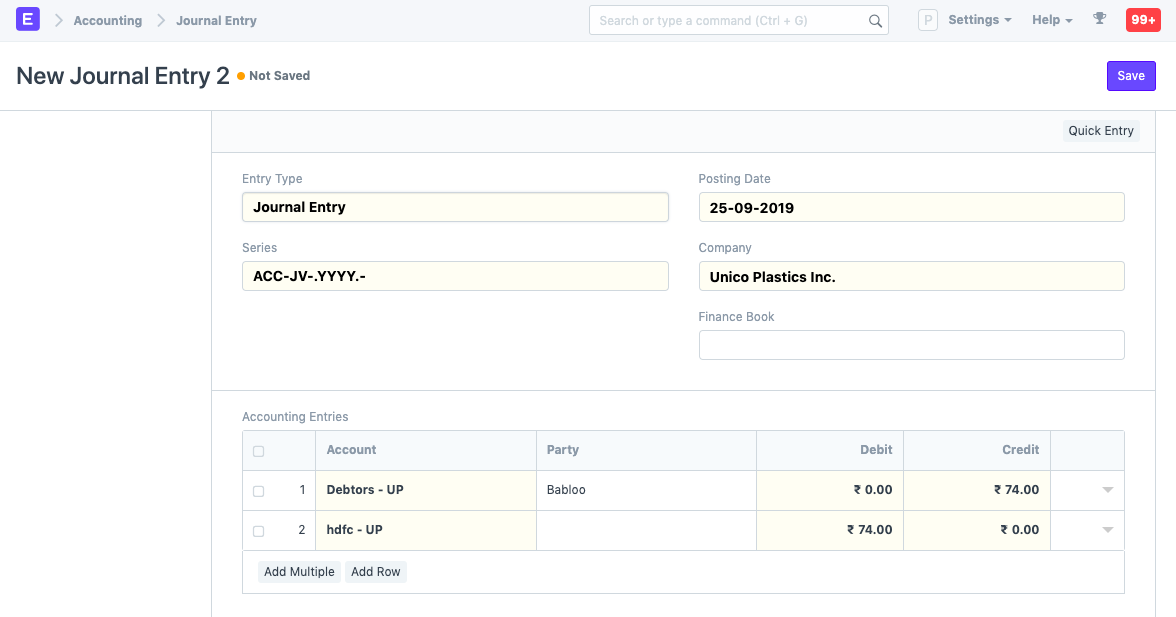
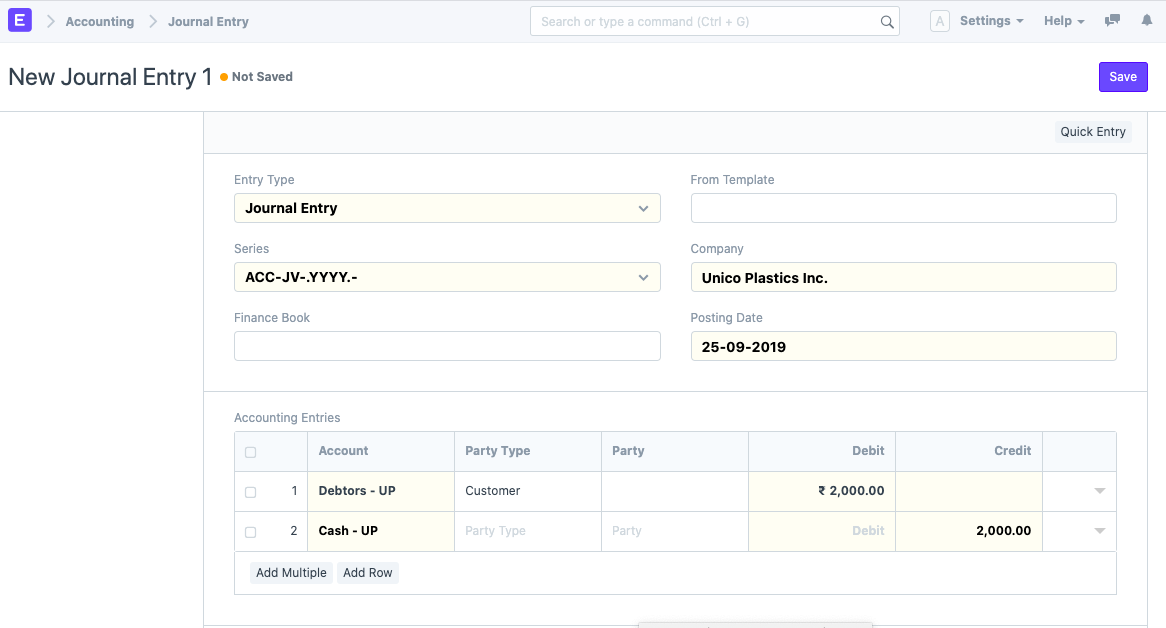
docs: Journal Entry Template (#59)
* files added

* docs: Journal Entry Template

* Update contents.md

* Update journal-entry-template.md

* Update journal-entry.md

diff --git a/erpnext_documentation/www/docs/user/manual/en/accounts/index.html b/erpnext_documentation/www/docs/user/manual/en/accounts/index.html
@@ -28,6 +28,11 @@
 				'content': 'A standard accounting transaction that affects multiple Accounts and the sum of debits is equal to the sum of credits.'
 			},
 			{
+				'title': 'Journal Entry Template',
+				'link': '/docs/user/manual/en/accounts/journal-entry-template',
+				'content': 'Journal Entry Templates let you set and select a predetermined list of accounts and options while making a Journal Entry.'
+			},
+			{
 				'title': 'Payment Entry',
 				'link': '/docs/user/manual/en/accounts/payment-entry',
 				'content': 'Accounting entries that can be made against invoices, sales and purchase orders, expense claims, etc.'

diff --git a/erpnext_documentation/www/docs/user/manual/en/accounts/journal-entry.md b/erpnext_documentation/www/docs/user/manual/en/accounts/journal-entry.md
@@ -7,16 +7,17 @@ A Journal Entry is a multi purpose transaction where the debit and credit accoun
 
 All types of accounting entries other than Sales and Purchase transactions are made using the **Journal Entry**. A **Journal Entry** is a standard accounting transaction that affects multiple Accounts and the sum of debits is equal to the sum of credits. A Journal Entry Impacts the main ledger.
 
-Journal Entries can be used for entering expenses, opening entries, contra entries, bank payments, excise entries, etc. For example, booing running expenses, direct expenses like petrol/transport, sundry expenses, adjustment entries, and adjusting invoice amount.
+Journal Entries can be used for entering expenses, opening entries, contra entries, bank payments, excise entries, etc. For example, booking running expenses, direct expenses like petrol/transport, sundry expenses, adjustment entries, and adjusting invoice amount.
 
 To access the Journal Entry list, go to:
-> Home > Accounting > General Ledger > Journal Entry 
+> Home > Accounting > General Ledger > Journal Entry
 
 ## 1. How to create a Journal Entry
 1. Go to the Journal Entry list, click on New.
 1. The default Entry Type will be 'Journal Entry'. This is a general purpose entry type. Visit [section 3](/docs/user/manual/en/accounts/journal-entry#3-journal-entry-types) to know more about entry types.
 1. You can change the Posting Date.
 1. Expand the table, select an Account from which amount is debited.
+1. The above details can be added from a [Journal Entry Template](/docs/user/manual/en/accounts/journal-entry-template) too with the 'From Template' field.
 1. Select the Party Type and Party if it's a Debtor entry.
 1. Add a row where the amount will be credited.
 1. Note that, in the end, total debit and credit amounts should add up to be the same.
@@ -38,7 +39,7 @@ When creating a Journal Entry, a **Quick Entry** button can be seen on the top r
   ![Acc Dim](/docs/assets/img/accounts/je-acc-dim.png)
 
 * **Bank Account No**: If you've added a [Bank Account](/docs/user/manual/en/accounts/bank-account), the number associated with that bank account will be fetched.
-* **Reference Type**: If this Accounting Entry is associated with another transaction, it can be referenced here. Select the Reference Type and select the specific document. For example, if you're creating a Journal Entry against a specific Sales Invoice. Link this Journal Entry to the invoice. The “outstanding” amount of that invoice will be affected. 
+* **Reference Type**: If this Accounting Entry is associated with another transaction, it can be referenced here. Select the Reference Type and select the specific document. For example, if you're creating a Journal Entry against a specific Sales Invoice. Link this Journal Entry to the invoice. The “outstanding” amount of that invoice will be affected.
 
   ![Reference](/docs/assets/img/accounts/je_table_reference.png)
 
@@ -81,7 +82,7 @@ with the amount required to make the total as zero. Select the account to debit/
 
 A Reference Number can be entered manually and a Reference Date can be set. On entering a Reference Number here, a 'Remark' will be seen, for example:
 
-> Note: supplier 
+> Note: supplier
 
 > Reference #2321 dated 30-09-2019 ₹ 1,000.00 against Sales Invoice ACC-SINV-2019-00064
 
@@ -97,7 +98,21 @@ If the accounts selected are in different currencies, tick the 'Multi Currency' 
 
 ![Multi Currency](/docs/assets/img/accounts/je-multi-currency.png)
 
-### 2.6 Print Settings
+### 2.6 Journal Entry Template
+
+**From Template** field: Selecting an option in this will load details from a Journal Entry Template.
+
+It will fetch and add the following details to the entry:
+
+- Entry Type
+- Company
+- Series
+- Accounts in Accounting Entries
+- Is Opening
+
+To learn more go to the [Journal Entry Template](/docs/user/manual/en/accounts/journal-entry-template) page.
+
+### 2.7 Print Settings
 
 ![Journal Print Settings](/docs/assets/img/accounts/je_print_settings.png)
 
@@ -118,7 +133,7 @@ Know more [here](/docs/user/manual/en/setting-up/print/print-headings).
 
 * **Mode of Payment**: Whether the payment was done using Wire Transfer, Bank Draft, Credit Card, Cheque, or Cash. New Modes of Payment can also be created. If a Bank Account is set in Mode of Payment, it will be fetched here when the Mode of Payment is selected.
 * **Is Opening**: If the Journal Entry is of type 'Opening Entry' this field will be set to 'Yes'. To know more, visit the [Opening Balance](/docs/user/manual/en/accounts/opening-balance) page.
-
+* **From Template**: When a template is selected, the 'Accounting Entries' table will be emptied first before loading the accounts from the template. You can add more account entries after that.
 
 ## 3. Journal Entry Types
 Let's take a look at some of the common accounting entries that can be done via Journal Entry in ERPNext.
@@ -160,31 +175,31 @@ This is a type of entry to easily identify all credit card entries.
 
 ### 3.6 Debit Note
 
-This is a document sent by a customer (your Company) to a supplier (your Supplier) when returning goods/items. 
+This is a document sent by a customer (your Company) to a supplier (your Supplier) when returning goods/items.
 
 You can also create a Debit Note directly from a Purchase Invoice.
 
-"Debit Note" is made for a Supplier against a Purchase Invoice or accepted 
+"Debit Note" is made for a Supplier against a Purchase Invoice or accepted
 as a credit note from Supplier when a company returns goods. When a Debit
-Note is made, the Company can either receive a payment from the Supplier or 
+Note is made, the Company can either receive a payment from the Supplier or
 adjust the amount in another invoice.
 
   * Debit: Supplier Account.
   * Credit: Purchase Return Account.
 
-To know more, [visit this page](/docs/user/manual/en/accounts/debit-note). 
+To know more, [visit this page](/docs/user/manual/en/accounts/debit-note).
 
 ### 3.7 Credit Note
 This is a document sent by a supplier to a customer when returning goods/items.
 
-"Credit Note" is made for a Customer against a Sales Invoice when the 
+"Credit Note" is made for a Customer against a Sales Invoice when the
 company needs to adjust a payment for returned goods. When a Credit Note
-is made, the seller can either make a payment to the customer or adjust 
+is made, the seller can either make a payment to the customer or adjust
 the amount in another invoice.
 
   * Debit: Sales Return Account.
   * Credit: Customer Account.
-  
+
 To know more, [visit this page](/docs/user/manual/en/accounts/credit-note).
 
 > A debit/credit note is usually issued for the value of the goods returned or lesser.
@@ -198,24 +213,24 @@ A Contra Entry is booked when the transaction is booked within the same Company 
 * Cash to Bank
 * Bank to Cash
 
-This is used to record withdrawing or depositing money from a Bank Account. When this entry is used, the money does not leave the company unless it is again used to pay for something. 
+This is used to record withdrawing or depositing money from a Bank Account. When this entry is used, the money does not leave the company unless it is again used to pay for something.
 
 ### 3.9 Excise Entry
 
 When a Company buys goods from a Supplier, company pays excise duty
-on these goods to Supplier. And when a company sells these goods to Customers, 
-it receives excise duty. Company will deduct payable excise duty and deposit balance 
+on these goods to Supplier. And when a company sells these goods to Customers,
+it receives excise duty. Company will deduct payable excise duty and deposit balance
 in Govt. account.
 
-  * When a Company buys goods with Excise duty: 
+  * When a Company buys goods with Excise duty:
     * Debit: Purchase Account, Excise Duty Account.
   	* Credit: Supplier Account.
-	
-  * When a Company sells goods with Excise duty: 
+
+  * When a Company sells goods with Excise duty:
     * Debit: Customer Account.
     * Credit: Sales Account, Excise Duty Account.
 
-> Note: Applicable in India, might not be applicable for your country. 
+> Note: Applicable in India, might not be applicable for your country.
 Please check your country regulations.
 
 
@@ -233,7 +248,7 @@ debts.
 
 ### 3.11 Opening Entry
 
-This entry is useful when moving from an another software to ERPNext during any time of the year. Your outstanding bills, equities etc. can be recorded to ERPNext using this entry type. Selecting type will fetch the Balance Sheet accounts. 
+This entry is useful when moving from an another software to ERPNext during any time of the year. Your outstanding bills, equities etc. can be recorded to ERPNext using this entry type. Selecting type will fetch the Balance Sheet accounts.
 
 ### 3.12 Depreciation
 

diff --git a/erpnext_documentation/www/docs/user/manual/en/accounts/journal-entry-template.md b/erpnext_documentation/www/docs/user/manual/en/accounts/journal-entry-template.md
@@ -1,0 +1,32 @@
+<!-- add-breadcrumbs -->
+# Journal Entry Template
+
+**A Journal Entry Template lets you set and select a predetermined list of accounts and options while making a Journal Entry.**
+
+To access the Journal Entry Template, go to:
+
+> Home > Accounting > General Ledger > Journal Entry Template
+
+## 1. How to Create and use a Journal Entry Template:
+
+<img class="screenshot" alt="Journal Entry Template" src="{{docs_base_url}}/assets/img/accounts/journal-entry-template-1.png">
+
+  1. Go to the Journal Entry Template List and click on New.
+  2. Add the following details:
+      * **Template Title**: This will be used to select the template from Journal Entry.
+      * **Company**: By default the company defined in Global Defaults is selected. You can select any another company too.
+      * **Entry Type**: You can select from the [entry types available in Journal Entry](/user/manual/en/accounts/journal-entry#3-journal-entry-types) here. Default value is [Journal Entry](/user/manual/en/accounts/journal-entry#31-journal-entry).
+        * There are 3 special 'Entry Types' in this:
+          * [Opening Entry](/user/manual/en/accounts/journal-entry#311-opening-entry): This will get all the accounts and load them into the "Accounting Entries" table. To learn more visit [Opening Balance](/user/manual/en/accounts/opening-balance) page.
+          * [Bank Entry](/user/manual/en/accounts/journal-entry#33-bank-entry): This will get and load the default Bank Account if set.
+          * [Cash Entry](/user/manual/en/accounts/journal-entry#34-cash-entry): This will get and load the default Cash Account if set.
+      * **Is Opening**: This will be autoset to 'Yes' if 'Opening Entry' is selected as Entry Type.
+      * **Series**: You can select from a list of naming series available to Journal Entry.
+      * **Accounting Entries**: Here you can select a list of accounts to add to the entry.
+  3. Save and go to [Journal Entry](/user/manual/en/accounts/journal-entry#1-how-to-create-a-journal-entry) and click on new.
+  4. In the 'From Template' field when you select the template, it will load the accounts and other options set in it. Please note it will clear the Accounting Entries table first, but you can add more accounts to the table apart from those fetched from the template.
+
+<img class="screenshot" alt="Journal Entry Template" src="{{docs_base_url}}/assets/img/accounts/journal-entry-template-2.gif">
+
+## 3. Related Topics
+  1. [Journal Entry](/user/manual/en/accounts/journal-entry)

diff --git a/erpnext_documentation/www/docs/user/manual/en/accounts/contents.md b/erpnext_documentation/www/docs/user/manual/en/accounts/contents.md
@@ -30,6 +30,7 @@ You can check out [this video](https://www.youtube.com/watch?v=5wjollWN0OA) for 
 
 ### 1.2 Journals and Payments
 1. [Journal Entry](/docs/user/manual/en/accounts/journal-entry)
+1. [Journal Entry Template](/docs/user/manual/en/accounts/journal-entry-template)
 1. [Payment Entry](/docs/user/manual/en/accounts/payment-entry)
 1. [Payment Request](/docs/user/manual/en/accounts/payment-request)
 1. [Mode of Payment](/docs/user/manual/en/accounts/mode-of-payment)
